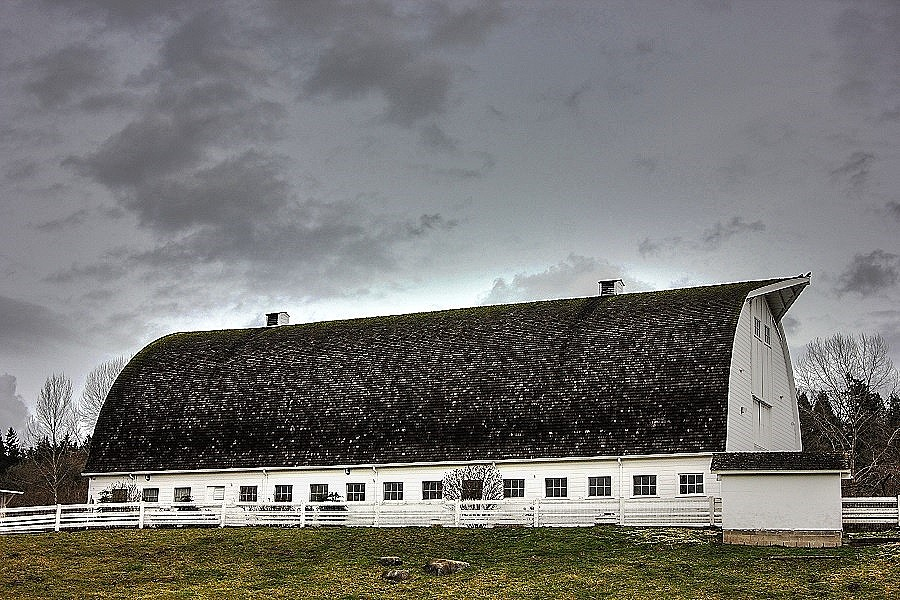
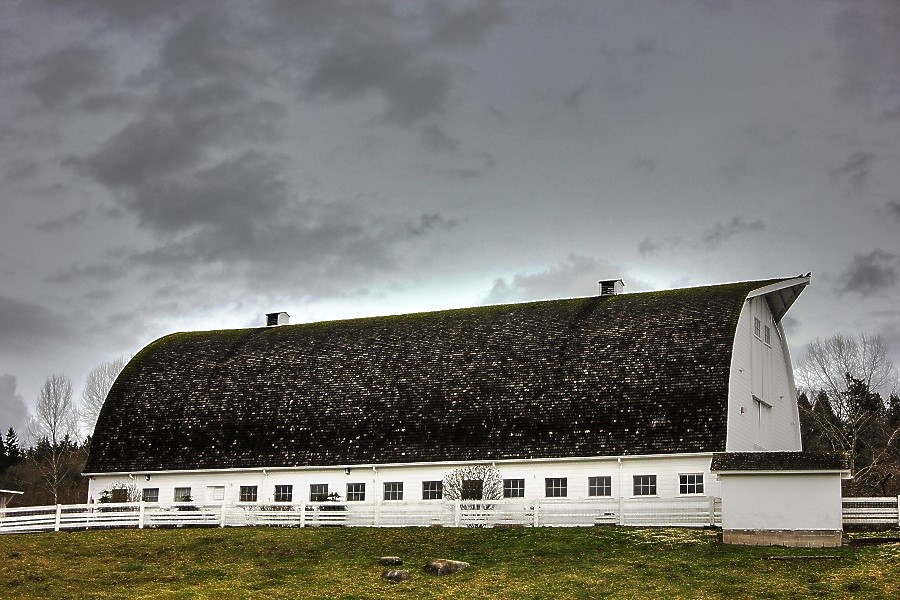
Add additional sharpening parameters
Sharpening now uses a custom unsharp mask shader instead of the built-in D2D sharpen effect.

Closes #85

Changed region(s): [[0.0, 0.45, 1.0, 1.0]]

diff --git a/Fotografix/EditorTemplates.xaml b/Fotografix/EditorTemplates.xaml
@@ -11,13 +11,15 @@
         <Setter Property="Margin" Value="0,16" />
     </Style>
 
-    <Style TargetType="Slider" BasedOn="{StaticResource DefaultSliderStyle}">
+    <Style x:Key="AdjustmentSliderStyle" TargetType="Slider" BasedOn="{StaticResource DefaultSliderStyle}">
         <Setter Property="Minimum" Value="-1" />
         <Setter Property="Maximum" Value="1" />
         <Setter Property="StepFrequency" Value="0.01" />
         <Setter Property="SmallChange" Value="0.01" />
         <Setter Property="LargeChange" Value="0.1" />
     </Style>
+
+    <Style TargetType="Slider" BasedOn="{StaticResource AdjustmentSliderStyle}" />
 
     <Style TargetType="winui:Expander">
         <Setter Property="Margin" Value="-8,0,0,0" />
@@ -147,7 +149,34 @@
             <winui:Expander Header="Detail">
                 <StackPanel>
                     <Slider Header="Clarity" Value="{x:Bind Clarity}" />
-                    <Slider Header="Sharpness" Value="{x:Bind Sharpness}" Minimum="0" />
+
+                    <Slider Value="{x:Bind Sharpness.Amount}" Minimum="0" Maximum="2">
+                        <Slider.Header>
+                            <Grid>
+                                <TextBlock Margin="0,4,0,0" HorizontalAlignment="Left" Text="Sharpness" />
+                                <Button Margin="0,-4,-6,-12" HorizontalAlignment="Right" Style="{ThemeResource CommandBarFlyoutEllipsisButtonStyle}">
+                                    <FontIcon FontSize="14" Glyph="&#xE9E9;" />
+
+                                    <Button.Flyout>
+                                        <Flyout Placement="BottomEdgeAlignedRight">
+                                            <StackPanel Width="250">
+                                                <StackPanel.Resources>
+                                                    <ResourceDictionary>
+                                                        <Style TargetType="Slider" BasedOn="{StaticResource AdjustmentSliderStyle}" />
+                                                    </ResourceDictionary>
+                                                </StackPanel.Resources>
+
+                                                <TextBlock Margin="0,0,0,16" FontWeight="SemiBold" Text="Sharpness" />
+                                                <Slider Header="Amount" Value="{x:Bind Sharpness.Amount}" Minimum="0" Maximum="2" />
+                                                <Slider Header="Radius" Value="{x:Bind Sharpness.Radius}" Minimum="0" Maximum="10" />
+                                                <Slider Header="Threshold" Value="{x:Bind Sharpness.Threshold}" Minimum="0" />
+                                            </StackPanel>
+                                        </Flyout>
+                                    </Button.Flyout>
+                                </Button>
+                            </Grid>
+                        </Slider.Header>
+                    </Slider>
                 </StackPanel>
             </winui:Expander>
         </StackPanel>

diff --git a/Fotografix.Core/SharpnessAdjustment.cs b/Fotografix.Core/SharpnessAdjustment.cs
@@ -1,0 +1,114 @@
+using Fotografix.Shaders;
+using Microsoft.Graphics.Canvas;
+using Microsoft.Graphics.Canvas.Effects;
+using Newtonsoft.Json;
+using System;
+using System.ComponentModel;
+
+namespace Fotografix
+{
+    public sealed class SharpnessAdjustment : NotifyPropertyChangedBase, ISharpnessAdjustment, IDisposable
+    {
+        private readonly GaussianBlurEffect blurEffect;
+        private readonly PixelShaderEffect unsharpMaskEffect;
+
+        private float amount;
+        private float radius;
+        private float threshold;
+
+        private float renderScale;
+        private ICanvasImage source;
+
+        public SharpnessAdjustment()
+        {
+            this.blurEffect = new GaussianBlurEffect { BorderMode = EffectBorderMode.Hard, Optimization = EffectOptimization.Quality };
+            this.unsharpMaskEffect = ShaderFactory.CreatePixelShaderEffect("UnsharpMask");
+            unsharpMaskEffect.Source2 = blurEffect;
+
+            this.RenderScale = 1;
+            this.Radius = 1;
+        }
+
+        public void Dispose()
+        {
+            unsharpMaskEffect.Dispose();
+            blurEffect.Dispose();
+        }
+
+        public float Amount
+        {
+            get => amount;
+
+            set
+            {
+                if (SetProperty(ref amount, value))
+                {
+                    unsharpMaskEffect.Properties["amount"] = value;
+                }
+            }
+        }
+
+        [DefaultValue(1f)]
+        public float Radius
+        {
+            get => radius;
+
+            set
+            {
+                if (SetProperty(ref radius, value))
+                {
+                    UpdateRadius();
+                }
+            }
+        }
+
+        public float Threshold
+        {
+            get => threshold;
+
+            set
+            {
+                if (SetProperty(ref threshold, value))
+                {
+                    unsharpMaskEffect.Properties["threshold"] = value;
+                }
+            }
+        }
+
+        [JsonIgnore]
+        public ICanvasImage Source
+        {
+            get => source;
+
+            set
+            {
+                this.source = value;
+                blurEffect.Source = value;
+                unsharpMaskEffect.Source1 = value;
+            }
+        }
+
+        [JsonIgnore]
+        public ICanvasImage Output => amount == 0 ? source : unsharpMaskEffect;
+
+        [JsonIgnore]
+        public float RenderScale
+        {
+            get => renderScale;
+
+            set
+            {
+                if (SetProperty(ref renderScale, value))
+                {
+                    UpdateRadius();
+                }
+            }
+        }
+
+        private void UpdateRadius()
+        {
+            // BlurAmount is the standard deviation of the Gaussian blur
+            blurEffect.BlurAmount = renderScale * radius / 2;
+        }
+    }
+}

diff --git a/Fotografix.Core/PhotoAdjustment.cs b/Fotografix.Core/PhotoAdjustment.cs
@@ -19,7 +19,7 @@ namespace Fotografix
         private readonly RgbToHueEffect rgbToHueEffect;
         private readonly PixelShaderEffect hslAdjustmentEffect;
         private readonly HueToRgbEffect hueToRgbEffect;
-        private readonly SharpenEffect sharpenEffect;
+        private readonly SharpnessAdjustment sharpnessAdjustment;
 
         public PhotoAdjustment()
         {
@@ -34,9 +34,10 @@ namespace Fotografix
             hslAdjustmentEffect.Source1 = rgbToHueEffect;
 
             this.hueToRgbEffect = new HueToRgbEffect { Source = hslAdjustmentEffect, SourceColorSpace = EffectHueColorSpace.Hsl };
-            this.sharpenEffect = new SharpenEffect { Source = hueToRgbEffect };
+            this.sharpnessAdjustment = new SharpnessAdjustment { Source = hueToRgbEffect };
 
             this.PropertyChanged += (s, e) => RaiseChanged();
+            sharpnessAdjustment.PropertyChanged += (s, e) => RaiseChanged();
             this.ColorRanges = new ColorRangeAdjustment();
         }
 
@@ -44,7 +45,7 @@ namespace Fotografix
         {
             UnsubscribeColorRanges();
 
-            sharpenEffect.Dispose();
+            sharpnessAdjustment.Dispose();
             hueToRgbEffect.Dispose();
             hslAdjustmentEffect.Dispose();
             rgbToHueEffect.Dispose();
@@ -70,7 +71,7 @@ namespace Fotografix
         }
 
         [JsonIgnore]
-        public ICanvasImage Output => enabled ? (ICanvasImage)sharpenEffect : (ICanvasImage)transformEffect;
+        public ICanvasImage Output => enabled ? sharpnessAdjustment.Output : transformEffect;
 
         [JsonIgnore]
         public bool Enabled
@@ -91,10 +92,10 @@ namespace Fotografix
                 if (SetProperty(ref renderScale, value))
                 {
                     transformEffect.TransformMatrix = Matrix3x2.CreateScale(value);
+                    sharpnessAdjustment.RenderScale = value;
 
                     // scale radius-based adjustments to match the input scale
                     highlightsAndShadowsEffect.MaskBlurAmount = 1.25f * renderScale;
-                    UpdateSharpness();
                 }
             }
         }
@@ -311,8 +312,6 @@ namespace Fotografix
 
         #region Detail
 
-        private float sharpness;
-
         public float Clarity
         {
             get => highlightsAndShadowsEffect.Clarity;
@@ -327,23 +326,7 @@ namespace Fotografix
             }
         }
 
-        public float Sharpness
-        {
-            get => sharpness;
-
-            set
-            {
-                if (SetProperty(ref sharpness, value))
-                {
-                    UpdateSharpness();
-                }
-            }
-        }
-
-        private void UpdateSharpness()
-        {
-            sharpenEffect.Amount = sharpness * renderScale * renderScale * 10;
-        }
+        public ISharpnessAdjustment Sharpness => sharpnessAdjustment;
 
         #endregion
 

diff --git a/Fotografix.Core.Tests/PhotoAdjustmentTest.cs b/Fotografix.Core.Tests/PhotoAdjustmentTest.cs
@@ -140,16 +140,20 @@ namespace Fotografix
         [TestMethod]
         public async Task Sharpness()
         {
-            adjustment.Sharpness = 0.5f;
+            adjustment.Sharpness.Amount = 0.5f;
+            adjustment.Sharpness.Radius = 2f;
+            adjustment.Sharpness.Threshold = 0.05f;
             await VerifyOutputAsync("Barn_sharpness.jpg");
         }
 
         [TestMethod]
         public async Task Sharpness_Scaled()
         {
-            adjustment.Sharpness = 0.5f;
+            adjustment.Sharpness.Amount = 0.5f;
+            adjustment.Sharpness.Radius = 2f;
+            adjustment.Sharpness.Threshold = 0.05f;
             adjustment.RenderScale = 0.5f;
-            await VerifyOutputAsync("Barn_sharpness_scaled.jpg", 1.9f);
+            await VerifyOutputAsync("Barn_sharpness_scaled.jpg");
         }
 
         private async Task VerifyOutputAsync(string filename, float tolerance = BitmapAssert.DefaultTolerance)

diff --git a/Fotografix.Core/Shaders/ShaderFactory.cs b/Fotografix.Core/Shaders/ShaderFactory.cs
@@ -1,4 +1,5 @@
 using Microsoft.Graphics.Canvas.Effects;
+using System;
 
 namespace Fotografix.Shaders
 {
@@ -8,6 +9,11 @@ namespace Fotografix.Shaders
         {
             using (var stream = typeof(ShaderFactory).Assembly.GetManifestResourceStream(typeof(ShaderFactory), shaderName + ".cso"))
             {
+                if (stream == null)
+                {
+                    throw new ArgumentException("Missing shader: " + shaderName);
+                }
+
                 int length = (int)stream.Length;
                 byte[] shaderCode = new byte[stream.Length];
                 stream.Read(shaderCode, 0, length);

diff --git a/Fotografix.Core.Tests/PhotoAdjustmentSerializationTest.cs b/Fotografix.Core.Tests/PhotoAdjustmentSerializationTest.cs
@@ -27,9 +27,12 @@ namespace Fotografix
             using (PhotoAdjustment adjustment = new PhotoAdjustment())
             {
                 adjustment.Exposure = 0.1f;
+
                 adjustment.ColorRanges[ColorRange.Red].Hue = 0.2f;
                 adjustment.ColorRanges[ColorRange.Green].Saturation = 0.3f;
                 adjustment.ColorRanges[ColorRange.Blue].Luminance = 0.4f;
+
+                adjustment.Sharpness.Amount = 0.5f;
 
                 Debug.WriteLine(adjustment.Serialize());
             }

diff --git a/Fotografix.Core/ISharpnessAdjustment.cs b/Fotografix.Core/ISharpnessAdjustment.cs
@@ -1,0 +1,11 @@
+using System.ComponentModel;
+
+namespace Fotografix
+{
+    public interface ISharpnessAdjustment : INotifyPropertyChanged
+    {
+        float Amount { get; set; }
+        float Radius { get; set; }
+        float Threshold { get; set; }
+    }
+}

diff --git a/Fotografix.Core/IPhotoAdjustment.cs b/Fotografix.Core/IPhotoAdjustment.cs
@@ -23,7 +23,7 @@ namespace Fotografix
 
         #region Detail
         float Clarity { get; set; }
-        float Sharpness { get; set; }
+        ISharpnessAdjustment Sharpness { get; }
         #endregion
     }
 }
